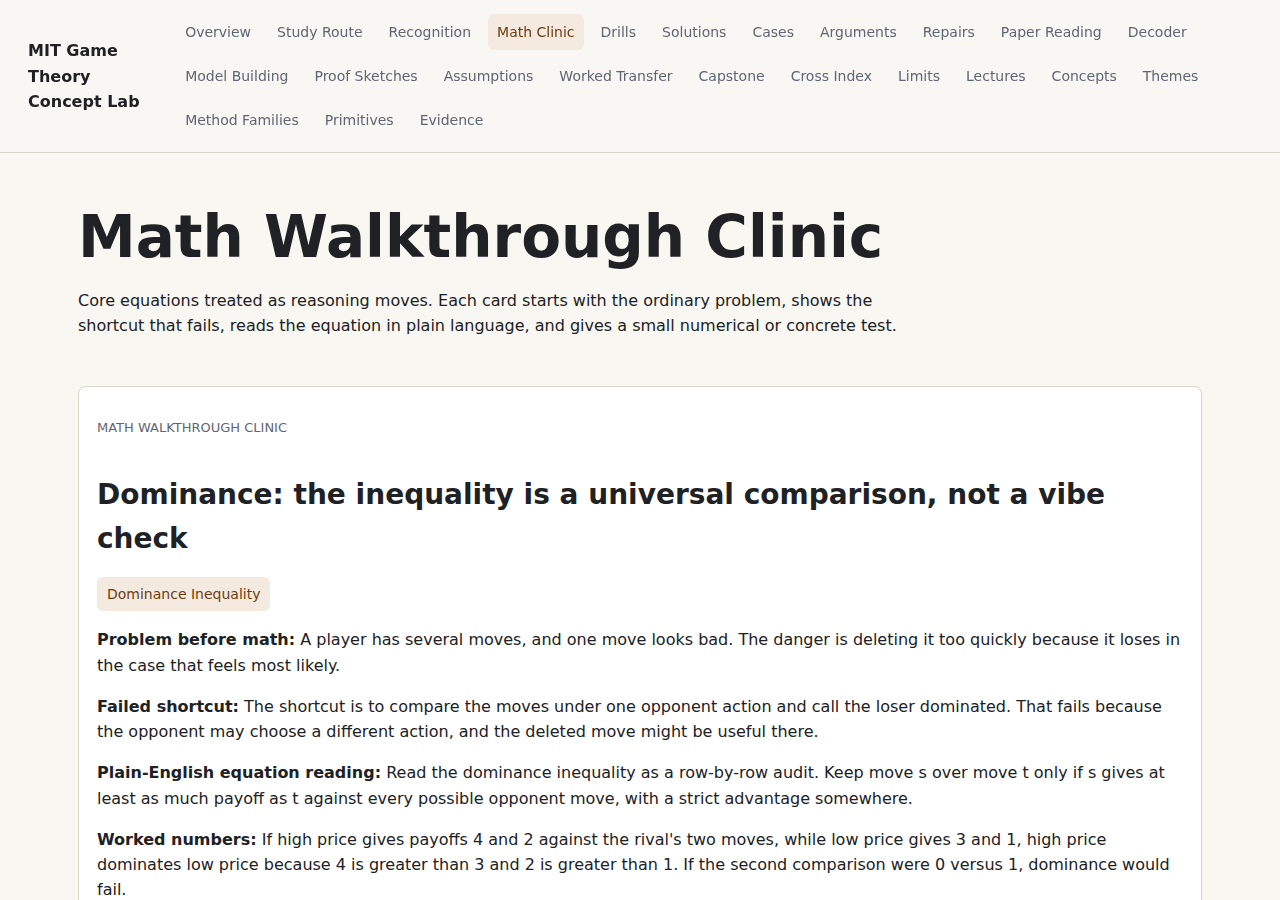
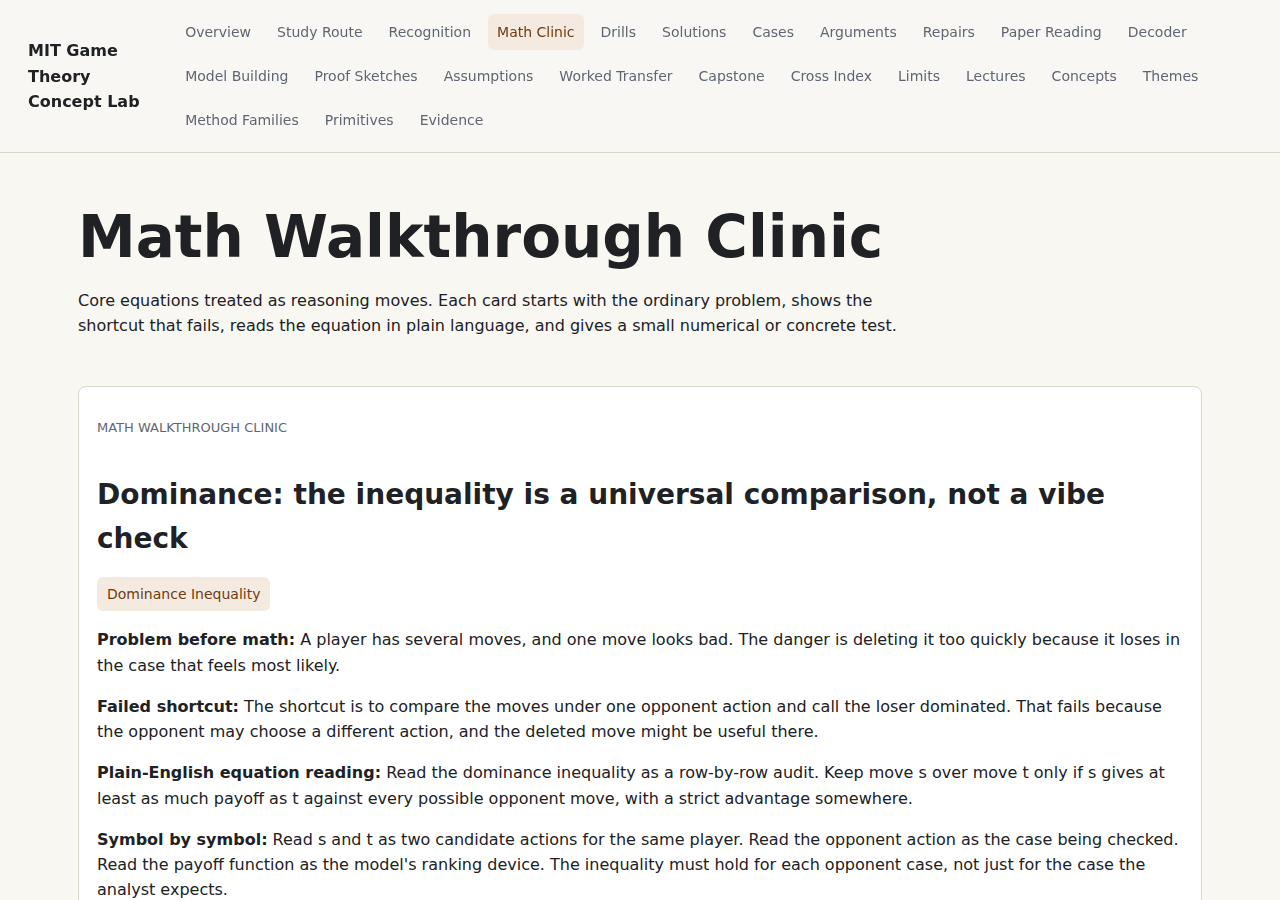
Deepen MIT math clinic

Changed region(s): [[0.0625, 0.9022, 0.9375, 0.9956]]

diff --git a/site/math-clinic.html b/site/math-clinic.html
@@ -21,8 +21,12 @@
   <p><strong>Problem before math:</strong> A player has several moves, and one move looks bad. The danger is deleting it too quickly because it loses in the case that feels most likely.</p>
   <p><strong>Failed shortcut:</strong> The shortcut is to compare the moves under one opponent action and call the loser dominated. That fails because the opponent may choose a different action, and the deleted move might be useful there.</p>
   <p><strong>Plain-English equation reading:</strong> Read the dominance inequality as a row-by-row audit. Keep move s over move t only if s gives at least as much payoff as t against every possible opponent move, with a strict advantage somewhere.</p>
+  <p><strong>Symbol by symbol:</strong> Read s and t as two candidate actions for the same player. Read the opponent action as the case being checked. Read the payoff function as the model&#x27;s ranking device. The inequality must hold for each opponent case, not just for the case the analyst expects.</p>
   <p><strong>Worked numbers:</strong> If high price gives payoffs 4 and 2 against the rival&#x27;s two moves, while low price gives 3 and 1, high price dominates low price because 4 is greater than 3 and 2 is greater than 1. If the second comparison were 0 versus 1, dominance would fail.</p>
+  <p><strong>Why the math has to exist:</strong> The math exists because intuition is too eager to delete. A universal inequality forces the analyst to prove that a move has no strategic defense anywhere in the represented game before removing it from later reasoning.</p>
+  <p><strong>Assumption check:</strong> Check that the opponent action set is complete, the payoffs are mapped correctly, and the comparison uses the same player in every row. If any rival action is missing, the deletion may be invalid.</p>
   <p><strong>Why this changes reasoning:</strong> The math lets the reader remove a move without first predicting the opponent. That is powerful precisely because the comparison survives every opponent action in the model.</p>
+  <p><strong>Misuse repair:</strong> If you catch yourself saying the action is probably bad, stop calling it dominance. Keep the action alive and move to beliefs, expected utility, best responses, or rationalizability.</p>
   <p><strong>Transfer test:</strong> Use this test when you see a strategy deletion step in a paper or lecture. Ask: did the author compare every relevant opponent case, or only the convenient one?</p>
   <h3>Concept Pages</h3><p class="chips"><a class="chip" href="concepts/dominance.html">Dominance</a><a class="chip" href="concepts/iterated_deletion.html">Iterated Deletion</a></p>
   <h3>Evidence Trail</h3><ul class="evidence-list"><li><a href="evidence.html#ev-dominance-01">ev-dominance-01</a>: Lecture 3: Dominance</li><li><a href="evidence.html#ev-iterated_deletion-01">ev-iterated_deletion-01</a>: Lecture 4: Rationalizability</li></ul>
@@ -33,8 +37,12 @@
   <p><strong>Problem before math:</strong> A player must choose now, but the payoff depends on a state they do not yet know. Looking only at the best possible outcome or the worst possible outcome throws away part of the situation.</p>
   <p><strong>Failed shortcut:</strong> The shortcut is to pick the action with the biggest payoff in one state. That fails because a rare jackpot and a common modest payoff should not be treated as equally likely.</p>
   <p><strong>Plain-English equation reading:</strong> Read the expected utility equation as weighted averaging. For each possible state, take the payoff from the action, weight it by how likely that state is, and add the weighted pieces.</p>
+  <p><strong>Symbol by symbol:</strong> Read each state as one possible way the world could turn out. Read the probability as the weight placed on that state before choosing. Read the payoff as what the action gives in that state. The sum gathers those weighted pieces into one comparable number.</p>
   <p><strong>Worked numbers:</strong> If bidding gives payoff 90 with probability one third and payoff 0 otherwise, its expected payoff is one third times 90 plus two thirds times 0, which equals 30. A safer action worth 25 is worse under this calculation, even though it avoids the zero outcome.</p>
+  <p><strong>Why the math has to exist:</strong> The math exists because choice happens before uncertainty is resolved. Without weighted averaging, a reader may chase the best possible ending, fear only the worst ending, or ignore how likely each ending is.</p>
+  <p><strong>Assumption check:</strong> Check where the probabilities come from, whether the payoff numbers represent the same objective across states, and whether the chooser is being modeled as expected-utility maximizing rather than using another risk rule.</p>
   <p><strong>Why this changes reasoning:</strong> The equation turns a messy uncertain choice into a comparable quantity while preserving both payoffs and probabilities. That is why it reappears in Bayesian games, auctions, and screening.</p>
+  <p><strong>Misuse repair:</strong> If the argument focuses on a vivid jackpot or vivid loss, rebuild the state table. Put each payoff beside its probability, then compare actions only after the weighted values are computed.</p>
   <p><strong>Transfer test:</strong> Use this test whenever a model chooses before hidden information is revealed. Ask: what are the states, what are the probabilities, and what payoff does this action produce in each state?</p>
   <h3>Concept Pages</h3><p class="chips"><a class="chip" href="concepts/expected_utility.html">Expected Utility</a><a class="chip" href="concepts/bayesian_games.html">Bayesian Games</a><a class="chip" href="concepts/auctions.html">Auctions</a></p>
   <h3>Evidence Trail</h3><ul class="evidence-list"><li><a href="evidence.html#ev-expected_utility-01">ev-expected_utility-01</a>: Lecture 1: Introduction to Individual Decision-Making</li><li><a href="evidence.html#ev-bayesian_games-01">ev-bayesian_games-01</a>: Lecture 16: Bayesian Games</li><li><a href="evidence.html#ev-auctions-01">ev-auctions-01</a>: Lecture 18: Auctions</li></ul>
@@ -45,9 +53,13 @@
   <p><strong>Problem before math:</strong> A player asks what to do, but the answer depends on what others do. A move cannot be called best in the abstract.</p>
   <p><strong>Failed shortcut:</strong> The shortcut is to rank a player&#x27;s actions once and use that ranking everywhere. That fails because an action that is best against one opponent move may be terrible against another.</p>
   <p><strong>Plain-English equation reading:</strong> Read BR_i(a_-i) as a conditional instruction: after everyone else&#x27;s actions are held fixed, look across player i&#x27;s actions and keep the payoff-maximizing ones.</p>
-  <p><strong>Worked numbers:</strong> If a firm earns 8 from producing high quantity when the rival produces low, and 5 from producing low quantity, high is the best response to low. But if the rival produces high and the payoffs switch to 1 for high and 4 for low, low is the best response to high.</p>
-  <p><strong>Why this changes reasoning:</strong> The math prevents the reader from treating strategy as a personality trait. It makes every recommendation conditional on the environment created by other players.</p>
-  <p><strong>Transfer test:</strong> Use this test when a paper says an agent optimally responds. Ask: optimal against what belief, opponent action, or continuation path?</p>
+  <p><strong>Symbol by symbol:</strong> Read BR as the best-response set, not always a single action. Read i as the player being tested. Read the outside action profile as fixed while player i compares their own actions. The answer is conditional on that outside behavior.</p>
+  <p><strong>Worked numbers:</strong> If a firm earns 8 from producing high quantity when the rival produces low, and 5 from producing low quantity, high is the best response to low. But if the rival produces high and the payoffs switch to 1 for high and 4 for low, low is the best response to high. The same firm therefore has different best responses in different columns.</p>
+  <p><strong>Why the math has to exist:</strong> The math exists because no strategic action is best in empty space. A choice becomes best only after the environment created by other players, beliefs, or histories is pinned down.</p>
+  <p><strong>Assumption check:</strong> Check that the player has the listed actions available, that the outside behavior is really being held fixed, and that payoffs include everything the player cares about at that moment. If information is hidden, the fixed object may be a belief rather than a known action.</p>
+  <p><strong>Why this changes reasoning:</strong> The math prevents the reader from treating strategy as a personality trait. It makes every recommendation conditional on the environment created by other players and therefore forces the model to state the outside behavior.</p>
+  <p><strong>Misuse repair:</strong> If a model says an action is optimal without saying against what, supply the missing condition. Ask whether the same action remains best under a different rival move, belief, or later history.</p>
+  <p><strong>Transfer test:</strong> Use this test when a paper says an agent optimally responds. Ask: optimal against what belief, opponent action, continuation path, or information set?</p>
   <h3>Concept Pages</h3><p class="chips"><a class="chip" href="concepts/best_response.html">Best Response</a><a class="chip" href="concepts/rationalizability.html">Rationalizability</a><a class="chip" href="concepts/imperfect_competition.html">Imperfect Competition</a></p>
   <h3>Evidence Trail</h3><ul class="evidence-list"><li><a href="evidence.html#ev-best_response-02">ev-best_response-02</a>: Lecture 5: Nash Equilibrium</li><li><a href="evidence.html#ev-rationalizability-01">ev-rationalizability-01</a>: Lecture 4: Rationalizability</li><li><a href="evidence.html#ev-imperfect_competition-01">ev-imperfect_competition-01</a>: Lecture 6: Imperfect Competition</li></ul>
 </article><article class="wide-card math-clinic-card" id="math-clinic-nash">
@@ -57,9 +69,13 @@
   <p><strong>Problem before math:</strong> A proposed outcome may look plausible when viewed from outside, but each player still has their own private temptation to move away from it.</p>
   <p><strong>Failed shortcut:</strong> The shortcut is to choose the outcome with the highest total payoff or the most natural story. That fails because a prediction must survive each player&#x27;s unilateral deviation check.</p>
   <p><strong>Plain-English equation reading:</strong> Read the Nash condition as a loop closure. For every player, the action assigned to that player must be inside the best-response set created by the other players&#x27; assigned actions.</p>
-  <p><strong>Worked numbers:</strong> If both firms choose low price, and either firm would earn more by switching to high price while the other stays low, low-low is not Nash. If neither firm can improve by changing alone from high-high, then high-high passes the Nash test even if both would prefer another coordinated outcome.</p>
+  <p><strong>Symbol by symbol:</strong> Read the candidate action profile as the whole proposed prediction. For each player, hold the other players&#x27; assigned actions fixed. Read the inequality as saying the assigned action gives at least as much payoff as any unilateral alternative.</p>
+  <p><strong>Worked numbers:</strong> If both firms choose low price, and either firm would earn more by switching to high price while the other stays low, low-low is not Nash. If neither firm can improve by changing alone from high-high, then high-high passes the Nash test even if both would prefer another coordinated outcome. The comparison is local to one player&#x27;s move at a time.</p>
+  <p><strong>Why the math has to exist:</strong> The math exists because a prediction must survive inside each player&#x27;s own incentives. A story can sound plausible from outside but fail because one player has a profitable private escape.</p>
+  <p><strong>Assumption check:</strong> Check which deviations are allowed, whether the game is one-shot or dynamic, and whether players know the payoff structure. Nash does not test coalitions, histories, hidden types, or welfare unless those are added separately.</p>
   <p><strong>Why this changes reasoning:</strong> The equation changes prediction from a story about what should happen into a checkable stability claim. It also explains why equilibrium can be inefficient without being internally inconsistent.</p>
-  <p><strong>Transfer test:</strong> Use this test whenever a model reports an equilibrium. Ask for each player: holding everyone else fixed, what exact deviation would improve their payoff?</p>
+  <p><strong>Misuse repair:</strong> If you are tempted to call the equilibrium good, rewrite the claim as a deviation test. Then ask a separate welfare question instead of loading moral meaning into Nash stability.</p>
+  <p><strong>Transfer test:</strong> Use this test whenever a model reports an equilibrium. Ask for each player: holding everyone else fixed, what exact deviation would improve their payoff, and which deviations are outside the model&#x27;s scope?</p>
   <h3>Concept Pages</h3><p class="chips"><a class="chip" href="concepts/nash_equilibrium.html">Nash Equilibrium</a><a class="chip" href="concepts/mixed_strategies.html">Mixed Strategies</a><a class="chip" href="concepts/bayesian_nash_equilibrium.html">Bayesian Nash Equilibrium</a></p>
   <h3>Evidence Trail</h3><ul class="evidence-list"><li><a href="evidence.html#ev-nash_equilibrium-01">ev-nash_equilibrium-01</a>: Lecture 5: Nash Equilibrium</li><li><a href="evidence.html#ev-mixed_strategies-01">ev-mixed_strategies-01</a>: Lecture 5: Nash Equilibrium</li><li><a href="evidence.html#ev-bayesian_nash_equilibrium-01">ev-bayesian_nash_equilibrium-01</a>: Lecture 17: Bayesian Nash Equilibrium: Applications</li></ul>
 </article><article class="wide-card math-clinic-card" id="math-clinic-backward-induction">
@@ -69,9 +85,13 @@
   <p><strong>Problem before math:</strong> A player threatens or promises a future action, and the current player reacts to that announcement. The key question is whether the future action would still be attractive later.</p>
   <p><strong>Failed shortcut:</strong> The shortcut is to take the announced threat as real because it changes current behavior. That fails when the threatener would not want to carry it out after the history reaches that point.</p>
   <p><strong>Plain-English equation reading:</strong> Read V(node) = max_action V(next node) as solving the tree from the end. At each decision point, replace the branch with the value of the best continuation available to the player moving there.</p>
-  <p><strong>Worked numbers:</strong> If entry leads the incumbent to choose fight for payoff -1 or accommodate for payoff 2, the future incumbent chooses accommodate. The entrant should reason using 2 as the continuation, not the announced fight payoff.</p>
-  <p><strong>Why this changes reasoning:</strong> The recursion makes credibility visible. It strips away future actions that sound scary today but would not be chosen tomorrow.</p>
-  <p><strong>Transfer test:</strong> Use this test when a model contains threats, promises, bargaining delays, or exit options. Ask: what would the acting player choose at the final decision node?</p>
+  <p><strong>Symbol by symbol:</strong> Read each node as a decision point in the tree. Read the max operation as the mover choosing the best available continuation at that node. Read the value assigned to the node as the payoff that earlier players should expect from that point onward.</p>
+  <p><strong>Worked numbers:</strong> If entry leads the incumbent to choose fight for payoff -1 or accommodate for payoff 2, the future incumbent chooses accommodate. The entrant should reason using 2 as the continuation, not the announced fight payoff. The earlier threat changes the story only if it changes that later comparison.</p>
+  <p><strong>Why the math has to exist:</strong> The math exists because time lets early speech and later incentives diverge. Backward recursion prevents an announced plan from counting unless it would actually be chosen when the later moment arrives.</p>
+  <p><strong>Assumption check:</strong> Check the order of moves, who observes what history, and whether the later player can commit in advance. If commitment or outside reputation changes the later payoff, the tree must include it rather than treating the simple backward-induction result as final.</p>
+  <p><strong>Why this changes reasoning:</strong> The recursion makes credibility visible. It strips away future actions that sound scary today but would not be chosen tomorrow when the acting player actually compares continuations.</p>
+  <p><strong>Misuse repair:</strong> If a threat seems powerful, jump to the node where it is carried out. Compare the remaining actions there. Only feed the threat backward if it wins that later comparison.</p>
+  <p><strong>Transfer test:</strong> Use this test when a model contains threats, promises, bargaining delays, or exit options. Ask: what would the acting player choose at the final decision node after earlier speech is sunk?</p>
   <h3>Concept Pages</h3><p class="chips"><a class="chip" href="concepts/backward_induction.html">Backward Induction</a><a class="chip" href="concepts/subgame_perfection.html">Subgame-Perfect Nash Equilibrium</a><a class="chip" href="concepts/bargaining.html">Bargaining</a></p>
   <h3>Evidence Trail</h3><ul class="evidence-list"><li><a href="evidence.html#ev-backward_induction-02">ev-backward_induction-02</a>: Lecture 2: Representation of Games</li><li><a href="evidence.html#ev-subgame_perfection-01">ev-subgame_perfection-01</a>: Lecture 10: Subgame-Perfect Nash Equilibrium</li><li><a href="evidence.html#ev-bargaining-01">ev-bargaining-01</a>: Lecture 9: Negotiation</li></ul>
 </article><article class="wide-card math-clinic-card" id="math-clinic-discounting">
@@ -79,11 +99,15 @@
   <h2>Discounting: cooperation survives only if the future is heavy enough</h2>
   <p class="chips"><a class="chip derivation-link" href="primitives.html#discounted_sum">Discounted Payoff Sum</a></p>
   <p><strong>Problem before math:</strong> A player can gain by cheating today, but cheating may destroy future cooperation. The issue is not whether punishment exists; it is whether the future loss is large enough.</p>
-  <p><strong>Failed shortcut:</strong> The shortcut is to say repeated interaction supports cooperation. That fails when players are impatient, the future is short, or punishment is too weak.</p>
+  <p><strong>Failed shortcut:</strong> The shortcut is to say repeated interaction supports cooperation. That fails when players are impatient, the future is short, punishment is too weak, or cheating is not observed.</p>
   <p><strong>Plain-English equation reading:</strong> Read the discounted sum as today&#x27;s value of a stream of payoffs. Current payoff counts fully; each later payoff is multiplied by another power of delta, the patience factor.</p>
-  <p><strong>Worked numbers:</strong> If cheating gives an extra 5 today but causes a loss of 2 every future period, patience matters. With delta near zero, those future losses barely count. With delta near one, the repeated future loss can outweigh the one-time gain.</p>
-  <p><strong>Why this changes reasoning:</strong> The formula turns vague future consequences into a comparison. It tells the reader when cooperation, cartel discipline, or bargaining patience can actually be incentive-compatible.</p>
-  <p><strong>Transfer test:</strong> Use this test in repeated-game arguments. Ask: what is the one-shot gain from deviation, what is the future punishment path, and how large must delta be for restraint to make sense?</p>
+  <p><strong>Symbol by symbol:</strong> Read delta as the weight placed on the next period relative to this one. Read later powers of delta as making farther future payoffs count less today. Read the sum as today&#x27;s value of a whole future path.</p>
+  <p><strong>Worked numbers:</strong> If cheating gives an extra 5 today but causes a loss of 2 every future period, patience matters. With delta near zero, those future losses barely count. With delta near one, the repeated future loss can outweigh the one-time gain because many later losses are valued almost like current losses. The same punishment path can therefore work for patient players and fail for impatient players.</p>
+  <p><strong>Why the math has to exist:</strong> The math exists because future consequences are not all equally powerful. A punishment ten periods away cannot be treated like a payoff now unless the model states how much the player values the future.</p>
+  <p><strong>Assumption check:</strong> Check whether the horizon is finite or indefinite, whether cheating is observed, whether punishment is credible, and whether the discount factor is high enough for the claimed cooperation.</p>
+  <p><strong>Why this changes reasoning:</strong> The formula turns vague future consequences into a comparison. It tells the reader when cooperation, cartel discipline, or bargaining patience can actually be incentive-compatible rather than merely socially plausible.</p>
+  <p><strong>Misuse repair:</strong> If the argument says cooperation follows from repetition, ask for the incentive inequality. The repeated relationship matters only through the discounted comparison between deviation and continuation, plus the credibility of punishment.</p>
+  <p><strong>Transfer test:</strong> Use this test in repeated-game arguments. Ask: what is the one-shot gain from deviation, what is the future punishment path, and how large must delta be for restraint to make sense under the monitoring assumptions?</p>
   <h3>Concept Pages</h3><p class="chips"><a class="chip" href="concepts/infinitely_repeated_games.html">Infinitely Repeated Games</a><a class="chip" href="concepts/folk_theorem.html">Folk Theorem</a><a class="chip" href="concepts/implicit_cartels.html">Implicit Cartels</a></p>
   <h3>Evidence Trail</h3><ul class="evidence-list"><li><a href="evidence.html#ev-infinitely_repeated_games-01">ev-infinitely_repeated_games-01</a>: Lecture 13: Infinitely Repeated Games</li><li><a href="evidence.html#ev-folk_theorem-01">ev-folk_theorem-01</a>: Lecture 14: Folk Theorem</li><li><a href="evidence.html#ev-implicit_cartels-01">ev-implicit_cartels-01</a>: Lecture 15: Implicit Cartels</li></ul>
 </article><article class="wide-card math-clinic-card" id="math-clinic-bayes-rule">
@@ -93,8 +117,12 @@
   <p><strong>Problem before math:</strong> A player observes an action or signal and needs to infer what hidden type may have produced it. The observation is useful only because some types are more likely to produce it than others.</p>
   <p><strong>Failed shortcut:</strong> The shortcut is to update toward the type that feels most vivid after the signal. That fails because updating must compare how likely the same signal is under each possible type.</p>
   <p><strong>Plain-English equation reading:</strong> Read Bayes rule as reweighting. Start with prior belief in a type, multiply by how likely this signal is if that type is true, then divide by the total chance of seeing the signal.</p>
+  <p><strong>Symbol by symbol:</strong> Read the prior as belief before the signal. Read the likelihood as how often a type would produce that signal. Read the denominator as the total chance of seeing the signal. The posterior is the reweighted belief after evidence arrives.</p>
   <p><strong>Worked numbers:</strong> Suppose high quality is 40 percent likely. High quality sends an expensive signal 75 percent of the time, and low quality sends it 25 percent of the time. The high-quality weight is .4 times .75 = .30; the low-quality weight is .6 times .25 = .15, so the posterior high-quality belief is .30 divided by .45, or two thirds.</p>
-  <p><strong>Why this changes reasoning:</strong> The equation disciplines belief changes in Bayesian games, signaling, and perfect Bayesian equilibrium. Beliefs become responses to modeled evidence instead of free narrative choices.</p>
+  <p><strong>Why the math has to exist:</strong> The math exists because evidence is comparative. A signal supports a type only relative to how likely that same signal would have been under other types in the model.</p>
+  <p><strong>Assumption check:</strong> Check that the prior is stated, the possible types are exhaustive enough for the model, and the signal likelihoods are justified by incentives or data rather than inserted to get the desired posterior.</p>
+  <p><strong>Why this changes reasoning:</strong> The equation disciplines belief changes in Bayesian games, signaling, and perfect Bayesian equilibrium. Beliefs become responses to modeled evidence instead of free narrative choices or convenient story patches.</p>
+  <p><strong>Misuse repair:</strong> If a signal feels persuasive, ask whether it is actually more likely under the claimed type. If every type would send it, Bayes&#x27; rule gives little reason to move beliefs.</p>
   <p><strong>Transfer test:</strong> Use this test when an action is interpreted as information. Ask: which types could have produced this signal, and how likely was the signal under each type?</p>
   <h3>Concept Pages</h3><p class="chips"><a class="chip" href="concepts/types_and_beliefs.html">Types And Beliefs</a><a class="chip" href="concepts/perfect_bayesian_equilibrium.html">Perfect Bayesian Equilibrium</a><a class="chip" href="concepts/signaling.html">Signaling</a></p>
   <h3>Evidence Trail</h3><ul class="evidence-list"><li><a href="evidence.html#ev-types_and_beliefs-01">ev-types_and_beliefs-01</a>: Lecture 16: Bayesian Games</li><li><a href="evidence.html#ev-perfect_bayesian_equilibrium-01">ev-perfect_bayesian_equilibrium-01</a>: Lecture 21: Perfect Bayesian Equilibrium</li><li><a href="evidence.html#ev-signaling-01">ev-signaling-01</a>: Lecture 22: Signaling</li></ul>
@@ -102,11 +130,15 @@
   <p class="eyebrow">Math walkthrough clinic</p>
   <h2>Auction expected payment: bid choice mixes price and chance of paying</h2>
   <p class="chips"><a class="chip derivation-link" href="primitives.html#auction_expected_payment">Auction Expected Payment</a></p>
-  <p><strong>Problem before math:</strong> A bidder chooses a bid before knowing whether they win. The bid changes both the chance of winning and the amount paid if winning.</p>
+  <p><strong>Problem before math:</strong> A bidder chooses a bid before knowing whether they win. The bid changes both the chance of winning and the amount paid if winning, so price and probability cannot be separated informally.</p>
   <p><strong>Failed shortcut:</strong> The shortcut is to look only at the payment if the bidder wins. That fails because a very high payment may be attached to a very small or very large winning probability, and incentives depend on both.</p>
   <p><strong>Plain-English equation reading:</strong> Read expected payment as payment-if-win times probability-of-winning. In richer auction formulas, the same idea is hidden inside integrals or expectations, but the primitive is still price times chance.</p>
-  <p><strong>Worked numbers:</strong> If bidding 10 means paying 10 with a 20 percent chance of winning, expected payment is 2. If bidding 18 means paying 18 with a 70 percent chance of winning, expected payment is 12.6. The higher bid raises both the chance and the expected payment.</p>
-  <p><strong>Why this changes reasoning:</strong> The calculation explains bid shading and revenue comparisons. A bidder trades off a better chance of allocation against a higher payment burden.</p>
+  <p><strong>Symbol by symbol:</strong> Read the payment conditional on winning as the price in the event that allocation happens. Read the winning probability as how often that event occurs under the bid. Their product is the expected payment before knowing whether the bidder wins.</p>
+  <p><strong>Worked numbers:</strong> If bidding 10 means paying 10 with a 20 percent chance of winning, expected payment is 2. If bidding 18 means paying 18 with a 70 percent chance of winning, expected payment is 12.6. The higher bid raises both the chance and the expected payment, so the bidder must compare extra allocation value against extra expected cost.</p>
+  <p><strong>Why the math has to exist:</strong> The math exists because bids change both prices and chances. Looking only at the price paid after winning misses the strategic value of raising or lowering the probability of winning.</p>
+  <p><strong>Assumption check:</strong> Check the auction format, what determines allocation, whether payment occurs only on winning, and whether quality scores or reserve prices change the probability or payment calculation.</p>
+  <p><strong>Why this changes reasoning:</strong> The calculation explains bid shading and revenue comparisons. A bidder trades off a better chance of allocation against a higher payment burden before knowing whether payment occurs.</p>
+  <p><strong>Misuse repair:</strong> If an auction explanation focuses only on the winning bid, split the rule into allocation probability and conditional payment. Then recompute expected payment from both pieces before making a revenue or bidding claim.</p>
   <p><strong>Transfer test:</strong> Use this test for auctions and ad auctions. Ask: what event triggers payment, what is paid in that event, and how does the bid change the probability of that event?</p>
   <h3>Concept Pages</h3><p class="chips"><a class="chip" href="concepts/auctions.html">Auctions</a><a class="chip" href="concepts/revenue_equivalence.html">Revenue Equivalence</a><a class="chip" href="concepts/ad_auctions.html">Ad Auctions</a></p>
   <h3>Evidence Trail</h3><ul class="evidence-list"><li><a href="evidence.html#ev-auctions-01">ev-auctions-01</a>: Lecture 18: Auctions</li><li><a href="evidence.html#ev-revenue_equivalence-01">ev-revenue_equivalence-01</a>: Lecture 19: Revenue Equivalence</li><li><a href="evidence.html#ev-ad_auctions-01">ev-ad_auctions-01</a>: Lecture 20: Ad Auctions</li></ul>
@@ -117,9 +149,13 @@
   <p><strong>Problem before math:</strong> Several players privately know the same fact, but they may not know whether the others know it too. Coordination can fail because the fact is not publicly anchored at every level of reasoning.</p>
   <p><strong>Failed shortcut:</strong> The shortcut is to say everyone knows the fact, so coordination should follow. That fails when each player doubts whether others know, or doubts whether others know that others know.</p>
   <p><strong>Plain-English equation reading:</strong> Read E, KE, KKE, and the continuing chain as levels of publicness. E is the fact; KE says everyone knows it; KKE says everyone knows everyone knows it; the dots say the chain never stops.</p>
-  <p><strong>Worked numbers:</strong> If two traders both hear a private rumor, each may still wonder whether the other heard it. A public announcement changes the structure because each knows the other heard the same announcement and knows the other can reason from that shared event.</p>
-  <p><strong>Why this changes reasoning:</strong> The recursion explains why public announcements and shared awareness can change strategic behavior even when the underlying fact was already true.</p>
-  <p><strong>Transfer test:</strong> Use this test when coordination seems mysteriously fragile. Ask: is the fact merely true, privately known, mutually known, or common knowledge?</p>
+  <p><strong>Symbol by symbol:</strong> Read E as the event or fact. Read K as a knowledge operator: who knows that event. Read repeated K&#x27;s as higher-order knowledge, such as everyone knowing that everyone knows. Common knowledge means the chain keeps going.</p>
+  <p><strong>Worked numbers:</strong> If two traders both hear a private rumor, each may still wonder whether the other heard it. A public announcement changes the structure because each knows the other heard the same announcement and knows the other can reason from that shared event. The announcement changes the belief hierarchy, not necessarily the first-order fact.</p>
+  <p><strong>Why the math has to exist:</strong> The math exists because coordination can fail even when the fact itself is shared privately. Players may need confidence about other players&#x27; confidence before acting together on a risky shared move.</p>
+  <p><strong>Assumption check:</strong> Check whether the signal is public, whether all players interpret it the same way, and whether the payoff problem actually requires coordinated beliefs rather than only private information.</p>
+  <p><strong>Why this changes reasoning:</strong> The recursion explains why public announcements and shared awareness can change strategic behavior even when the underlying fact was already true for every individual player.</p>
+  <p><strong>Misuse repair:</strong> If someone says everyone knows, ask which level they mean. A public announcement can matter because it upgrades private or mutual knowledge into a shared recursive anchor that players can safely use for coordination.</p>
+  <p><strong>Transfer test:</strong> Use this test when coordination seems mysteriously fragile. Ask: is the fact merely true, privately known, mutually known, publicly announced, or common knowledge?</p>
   <h3>Concept Pages</h3><p class="chips"><a class="chip" href="concepts/common_knowledge.html">Common Knowledge</a><a class="chip" href="concepts/rationalizability.html">Rationalizability</a><a class="chip" href="concepts/nash_equilibrium.html">Nash Equilibrium</a></p>
   <h3>Evidence Trail</h3><ul class="evidence-list"><li><a href="evidence.html#ev-common_knowledge-01">ev-common_knowledge-01</a>: Lecture 25: Common Knowledge</li><li><a href="evidence.html#ev-rationalizability-01">ev-rationalizability-01</a>: Lecture 4: Rationalizability</li><li><a href="evidence.html#ev-nash_equilibrium-01">ev-nash_equilibrium-01</a>: Lecture 5: Nash Equilibrium</li></ul>
 </article></main>

diff --git a/scripts/validate_site.py b/scripts/validate_site.py
@@ -206,13 +206,14 @@ def main() -> int:
             seen_math_derivations.add(derivation_id)
             if f'href="primitives.html#{derivation_id}"' not in math_clinic_html:
                 errors.append(f"math clinic {item['id']} missing derivation link: {derivation_id}")
-        for field in ["problem_before_math", "failed_shortcut", "plain_english_equation_reading", "worked_numbers", "why_this_changes_reasoning", "transfer_test"]:
+        fields = ["problem_before_math", "failed_shortcut", "plain_english_equation_reading", "symbol_by_symbol", "worked_numbers", "why_math_has_to_exist", "assumption_check", "why_this_changes_reasoning", "misuse_repair", "transfer_test"]
+        for field in fields:
             value = item.get(field, "")
-            if words(value) < 14:
+            if words(value) < 22:
                 errors.append(f"math clinic {item['id']} has shallow {field}")
             elif html.escape(value, quote=True) not in math_clinic_html:
                 errors.append(f"math clinic {item['id']} {field} not rendered")
-        if words(" ".join(str(item.get(field, "")) for field in ["problem_before_math", "failed_shortcut", "plain_english_equation_reading", "worked_numbers", "why_this_changes_reasoning", "transfer_test"])) < 120:
+        if words(" ".join(str(item.get(field, "")) for field in fields)) < 330:
             errors.append(f"math clinic {item['id']} has shallow combined walkthrough")
         for concept_id in item.get("concepts", []):
             if concept_id not in concept_by_id:

diff --git a/scripts/build_site.py b/scripts/build_site.py
@@ -350,8 +350,12 @@ def build_math_clinic(clinic, deriv_by_id, concept_by_id, ev_by_id):
   <p><strong>Problem before math:</strong> {esc(item["problem_before_math"])}</p>
   <p><strong>Failed shortcut:</strong> {esc(item["failed_shortcut"])}</p>
   <p><strong>Plain-English equation reading:</strong> {esc(item["plain_english_equation_reading"])}</p>
+  <p><strong>Symbol by symbol:</strong> {esc(item["symbol_by_symbol"])}</p>
   <p><strong>Worked numbers:</strong> {esc(item["worked_numbers"])}</p>
+  <p><strong>Why the math has to exist:</strong> {esc(item["why_math_has_to_exist"])}</p>
+  <p><strong>Assumption check:</strong> {esc(item["assumption_check"])}</p>
   <p><strong>Why this changes reasoning:</strong> {esc(item["why_this_changes_reasoning"])}</p>
+  <p><strong>Misuse repair:</strong> {esc(item["misuse_repair"])}</p>
   <p><strong>Transfer test:</strong> {esc(item["transfer_test"])}</p>
   <h3>Concept Pages</h3><p class="chips">{concept_links}</p>
   <h3>Evidence Trail</h3><ul class="evidence-list">{evidence_links}</ul>

diff --git a/scripts/audit_editorial_quality.py b/scripts/audit_editorial_quality.py
@@ -320,11 +320,11 @@ def main() -> int:
             errors.append(f"math clinic {item['id']} not rendered")
         text = " ".join(
             str(item.get(k, ""))
-            for k in ["problem_before_math", "failed_shortcut", "plain_english_equation_reading", "worked_numbers", "why_this_changes_reasoning", "transfer_test"]
+            for k in ["problem_before_math", "failed_shortcut", "plain_english_equation_reading", "symbol_by_symbol", "worked_numbers", "why_math_has_to_exist", "assumption_check", "why_this_changes_reasoning", "misuse_repair", "transfer_test"]
         )
         treatment_words = words(text)
         math_clinic_words.append(treatment_words)
-        if treatment_words < 120:
+        if treatment_words < 330:
             errors.append(f"math clinic {item['id']} has shallow walkthrough: {treatment_words} words")
         derivation_id = item.get("derivation_id", "")
         if f'href="primitives.html#{derivation_id}"' in math_clinic_html:

diff --git a/analysis/audits/site-render-report.md b/analysis/audits/site-render-report.md
@@ -11,7 +11,7 @@ Playwright render audit for representative desktop and mobile pages.
 - desktop-index: `index.html`, viewport 1280,900, captured 1280x900, 133177 bytes
 - desktop-study-route: `study-route.html`, viewport 1280,900, captured 1280x900, 149361 bytes
 - desktop-recognition: `recognition.html`, viewport 1280,900, captured 1280x900, 159710 bytes
-- desktop-math-clinic: `math-clinic.html`, viewport 1280,900, captured 1280x900, 144019 bytes
+- desktop-math-clinic: `math-clinic.html`, viewport 1280,900, captured 1280x900, 143947 bytes
 - desktop-drills: `drills.html`, viewport 1280,900, captured 1280x900, 148307 bytes
 - desktop-solutions: `solutions.html`, viewport 1280,900, captured 1280x900, 155765 bytes
 - desktop-cases: `cases.html`, viewport 1280,900, captured 1280x900, 148459 bytes

diff --git a/analysis/audits/editorial-quality-report.md b/analysis/audits/editorial-quality-report.md
@@ -35,7 +35,7 @@ This static audit checks explanatory depth, required teaching sections, evidence
 - Recognition clinic primitive links: 22
 - Recognition clinic evidence links: 29
 - Math clinic cards: 9
-- Math clinic words: min 177, max 210
+- Math clinic words: min 332, max 352
 - Math clinic derivation links: 9
 - Math clinic concept links: 26
 - Math clinic evidence links: 26
